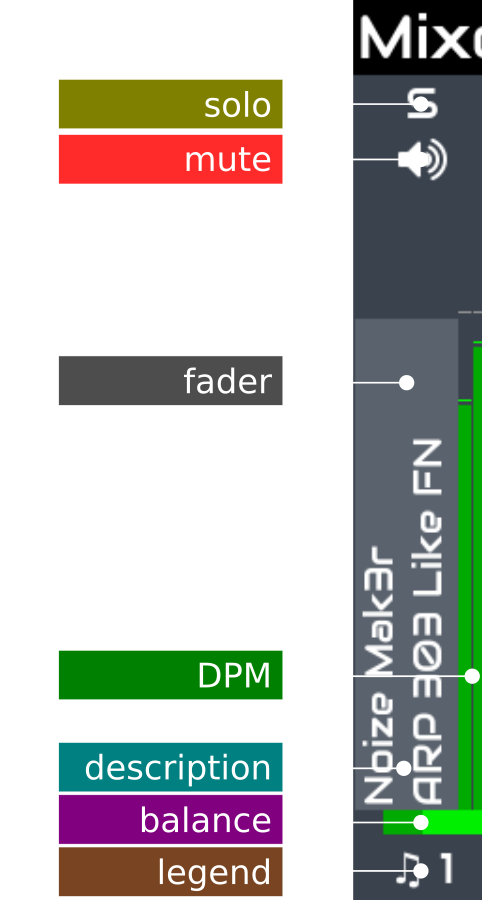
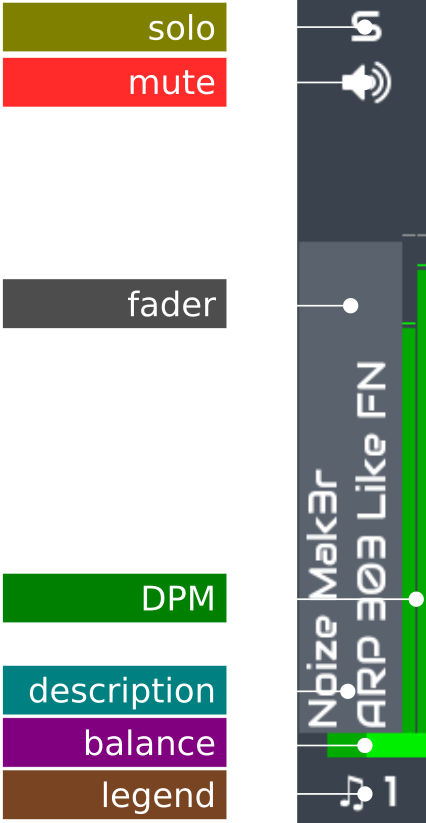
Style adjustments to mixer's contextual help.

diff --git a/help/audio_mixer.html b/help/audio_mixer.html
@@ -27,22 +27,23 @@
   </div>
  </div>
 
- <h1>Audio Mixer</h1>
-
- <p>The audio mixer is the zynthian UI's "home" view. You can always access
-  the mixer by pushing the MIX button.</p>
- <p>It's composed of vertical strips associated with chains. Initially it will be empty, showing the main strip alone.
-  For each chain you create, a new strip is added to the mixer. There can be more mixer strips than can be displayed.
-  They will scroll left / right if you select a strip that is off screen.</p>
- <p>Each strip is an interactive widget that can be manipulated in several ways and it shows status info about the
-  associated chain.<p>
-
- <p>From top to bottom:</p>
+ <div class="right_container">
+  <h1>Audio Mixer</h1>
+  <p>The audio mixer is the zynthian UI's "home" view. You can always access
+   the mixer by pushing the MIX button.</p>
+  <p>It's composed of vertical strips associated with chains. Initially it will be empty, showing the main strip alone.
+   For each chain you create, a new strip is added to the mixer. There can be more mixer strips than can be displayed.
+   They will scroll left / right if you select a strip that is off screen.</p>
+  <p>Each strip is an interactive widget that can be manipulated in several ways and it shows status info about the
+   associated chain.<p>
+  <p>From top to bottom:</p>
+ </div>
 
  <div class="left_float_container">
   <img src="img/mixer_strip_legend_bg_black.png" class="full">
  </div>
 
+ <div class="right_container">
  <ul>
   <li><b>Solo:</b> Solo flag. Push to toggle. This is a non-exclusive solo mode. When a chain has solo enabled, all
    other chains without solo enabled will be muted, allowing auditioning of one or more chains. The <i>main</i> solo
@@ -58,6 +59,7 @@
   <li><b>Legend:</b> It shows an icon for the chain's type and a number for the assigned MIDI channel. Tap it to access
    the chain's control view.</li>
  </ul>
+ </div>
 
  <div class="clear"></div>
 

diff --git a/help/style.css b/help/style.css
@@ -27,6 +27,10 @@ div.clear {
 	clear: both;
 }
 
+div.right_container {
+	width: 65%;
+}
+
 div.knobs_action_container,
 div.left_float_container {
 	clear: both;
@@ -34,7 +38,6 @@ div.left_float_container {
 	width: 30%;
 }
 div.knob_action {
-	margin-left: 1em;
 	margin-bottom: 2px;
 	padding-right: 4px;
 	font-size: 100%;
